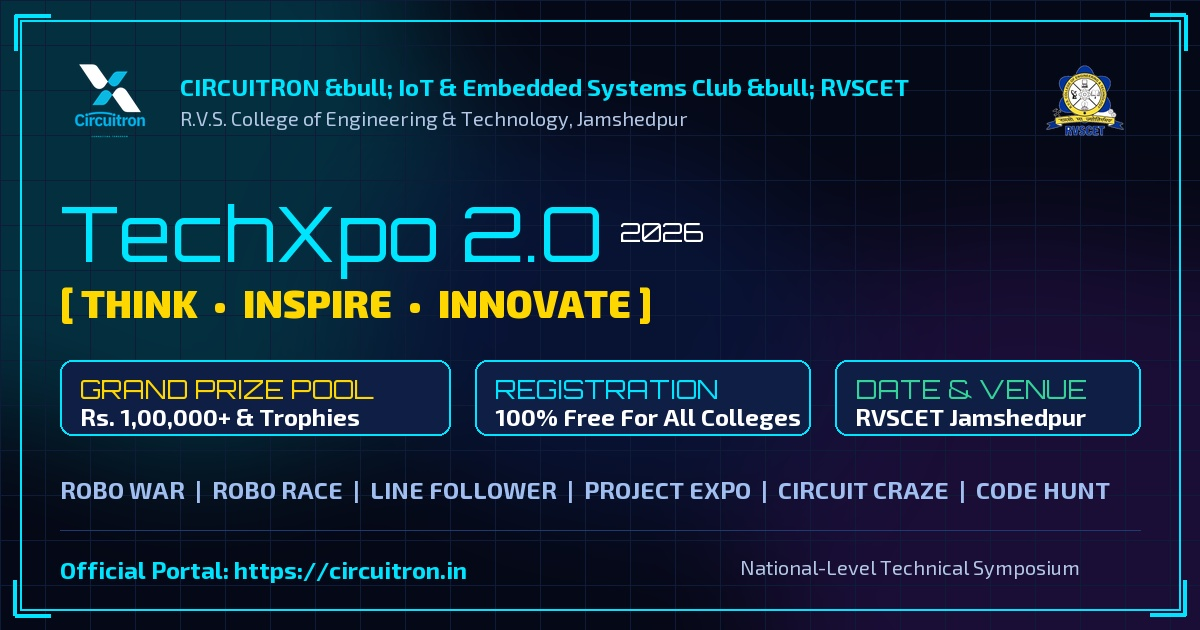
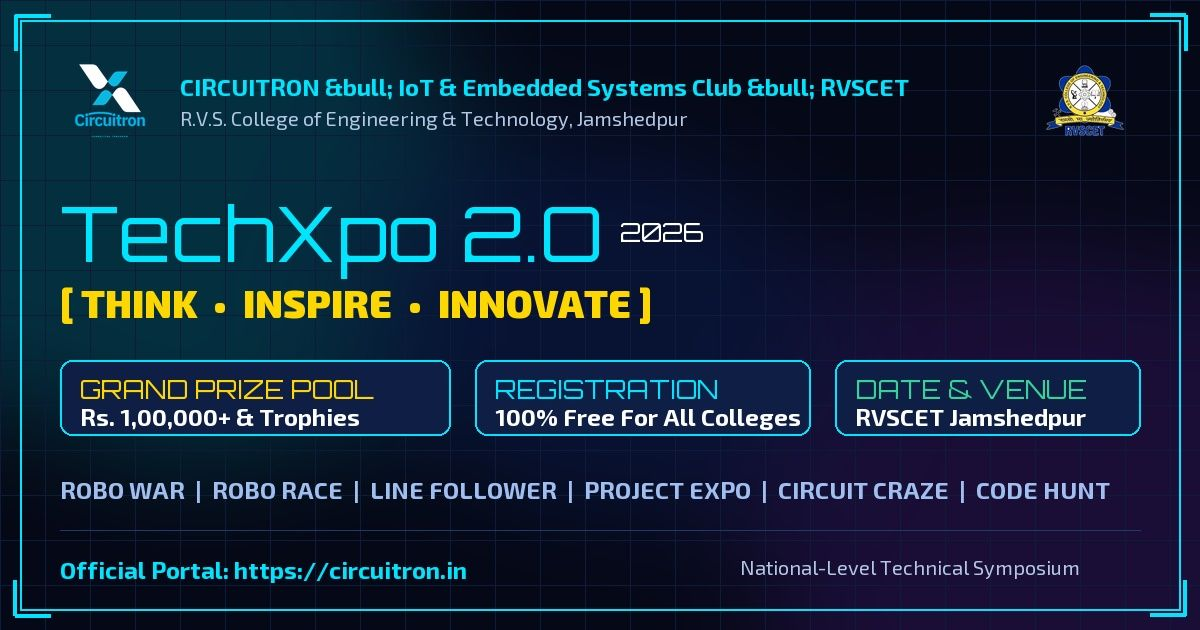
feat(ux+mobile): add floating whatsapp button, enhance mobile menu, fix broken buttons and make contact details clickable

diff --git a/src/components/Navbar.jsx b/src/components/Navbar.jsx
@@ -33,10 +33,18 @@ export default function Navbar() {
     return () => window.removeEventListener("scroll", handleScroll);
   }, []);
 
-  // Close mobile drawer when route changes
+  // Close mobile drawer when route changes or Escape key pressed
   useEffect(() => {
     setIsOpen(false);
   }, [location.pathname]);
+
+  useEffect(() => {
+    const handleKeyDown = (e) => {
+      if (e.key === "Escape") setIsOpen(false);
+    };
+    window.addEventListener("keydown", handleKeyDown);
+    return () => window.removeEventListener("keydown", handleKeyDown);
+  }, []);
 
   return (
     <motion.header
@@ -149,6 +157,7 @@ export default function Navbar() {
               onClick={() => setIsOpen(!isOpen)}
               className="p-1.5 sm:p-2.5 min-w-[34px] min-h-[34px] sm:min-w-[40px] sm:min-h-[40px] flex items-center justify-center rounded-xl bg-darkNavy/80 border border-primary/20 text-gray-300 hover:text-white focus:outline-none flex-shrink-0"
               aria-label="Toggle menu"
+              aria-expanded={isOpen}
             >
               {isOpen ? <X className="w-4 h-4 sm:w-5 sm:h-5" /> : <Menu className="w-4 h-4 sm:w-5 sm:h-5" />}
             </button>
@@ -156,55 +165,74 @@ export default function Navbar() {
         </nav>
       </div>
 
-      {/* Mobile Drawer Dropdown */}
+      {/* Mobile Drawer Dropdown & Backdrop */}
       <AnimatePresence>
         {isOpen && (
-          <motion.div
-            initial={{ opacity: 0, y: -20 }}
-            animate={{ opacity: 1, y: 0 }}
-            exit={{ opacity: 0, y: -20 }}
-            className="lg:hidden max-w-7xl mx-auto px-4 mt-2"
-          >
-            <div className="bg-darkNavy/95 backdrop-blur-xl p-4 sm:p-5 rounded-2xl border border-primary/30 space-y-2 shadow-2xl">
-              {navItems.map((item) => {
-                const isActive = location.pathname === item.path;
-                return (
-                  <Link
-                    key={item.name}
-                    to={item.path}
-                    onClick={() => setIsOpen(false)}
-                    className={`block px-4 py-3 rounded-xl text-sm font-semibold transition-all min-h-[44px] flex items-center ${
-                      isActive
-                        ? "bg-gradient-to-r from-primary/30 to-accent/30 text-white border border-primary/40 font-bold"
-                        : "text-gray-300 hover:text-white hover:bg-white/5"
-                    }`}
-                  >
-                    {item.name}
-                  </Link>
-                );
-              })}
+          <>
+            <motion.div
+              initial={{ opacity: 0 }}
+              animate={{ opacity: 1 }}
+              exit={{ opacity: 0 }}
+              onClick={() => setIsOpen(false)}
+              className="lg:hidden fixed inset-0 bg-black/60 backdrop-blur-sm z-[-1]"
+            />
+            <motion.div
+              initial={{ opacity: 0, y: -20 }}
+              animate={{ opacity: 1, y: 0 }}
+              exit={{ opacity: 0, y: -20 }}
+              className="lg:hidden max-w-7xl mx-auto px-4 mt-2"
+            >
+              <div className="bg-darkNavy/95 backdrop-blur-xl p-4 sm:p-5 rounded-2xl border border-primary/30 space-y-2 shadow-2xl">
+                {navItems.map((item) => {
+                  const isActive = location.pathname === item.path;
+                  return (
+                    <Link
+                      key={item.name}
+                      to={item.path}
+                      onClick={() => setIsOpen(false)}
+                      className={`block px-4 py-3 rounded-xl text-sm font-semibold transition-all min-h-[44px] flex items-center ${
+                        isActive
+                          ? "bg-gradient-to-r from-primary/30 to-accent/30 text-white border border-primary/40 font-bold"
+                          : "text-gray-300 hover:text-white hover:bg-white/5"
+                      }`}
+                    >
+                      {item.name}
+                    </Link>
+                  );
+                })}
 
-              <div className="pt-2 space-y-2">
-                <a
-                  href="https://forms.gle/mNU3damnJBMfnmSU7"
-                  target="_blank"
-                  rel="noopener noreferrer"
-                  className="w-full btn-primary py-3 text-xs font-bold flex items-center justify-center space-x-1.5 min-h-[44px]"
-                >
-                  <span>Register for TechXpo 2.O</span>
-                  <ArrowUpRight className="w-4 h-4" />
-                </a>
-                <Link
-                  to="/admin"
-                  onClick={() => setIsOpen(false)}
-                  className="w-full py-2.5 px-3 rounded-xl bg-darkNavy/80 border border-primary/20 text-xs font-mono text-gray-300 hover:text-accent flex items-center justify-center space-x-1.5"
-                >
-                  <ShieldCheck className="w-4 h-4 text-accent" />
-                  <span>Admin Portal</span>
-                </Link>
+                <div className="pt-2 space-y-2">
+                  <Link
+                    to="/verify"
+                    onClick={() => setIsOpen(false)}
+                    className="w-full py-2.5 px-3 rounded-xl bg-darkNavy/80 border border-primary/20 text-xs font-mono text-gray-300 hover:text-primary flex items-center justify-center space-x-1.5"
+                  >
+                    <Sparkles className="w-4 h-4 text-primary" />
+                    <span>Verify Credentials &amp; Badges</span>
+                  </Link>
+
+                  <a
+                    href="https://forms.gle/mNU3damnJBMfnmSU7"
+                    target="_blank"
+                    rel="noopener noreferrer"
+                    className="w-full btn-primary py-3 text-xs font-bold flex items-center justify-center space-x-1.5 min-h-[44px]"
+                  >
+                    <span>Register for TechXpo 2.O</span>
+                    <ArrowUpRight className="w-4 h-4" />
+                  </a>
+
+                  <Link
+                    to="/admin"
+                    onClick={() => setIsOpen(false)}
+                    className="w-full py-2.5 px-3 rounded-xl bg-darkNavy/80 border border-primary/20 text-xs font-mono text-gray-300 hover:text-accent flex items-center justify-center space-x-1.5"
+                  >
+                    <ShieldCheck className="w-4 h-4 text-accent" />
+                    <span>Admin Portal</span>
+                  </Link>
+                </div>
               </div>
-            </div>
-          </motion.div>
+            </motion.div>
+          </>
         )}
       </AnimatePresence>
     </motion.header>

diff --git a/src/components/Footer.jsx b/src/components/Footer.jsx
@@ -1,7 +1,7 @@
 import React from "react";
 import { Link } from "react-router-dom";
 import { motion } from "framer-motion";
-import { Mail, MapPin, ArrowUpRight, Heart, Sparkles } from "lucide-react";
+import { Mail, Phone, MessageSquare, MapPin, ArrowUpRight, Heart, Sparkles } from "lucide-react";
 
 export default function Footer() {
   const currentYear = new Date().getFullYear();
@@ -146,18 +146,24 @@ export default function Footer() {
 
           {/* Campus Coordinates (4 cols) */}
           <div className="lg:col-span-4 space-y-4">
-            <div className="flex items-center space-x-2.5">
-              <div className="w-8 h-8 rounded-lg p-0.5 bg-darkNavy border border-primary/30 flex items-center justify-center overflow-hidden">
+            <a
+              href="https://maps.app.goo.gl/PxfFwyV8UVVcCkex8"
+              target="_blank"
+              rel="noopener noreferrer"
+              className="flex items-center space-x-2.5 group transition-colors"
+              title="Open RVSCET on Google Maps"
+            >
+              <div className="w-8 h-8 rounded-lg p-0.5 bg-darkNavy border border-primary/30 group-hover:border-accent flex items-center justify-center overflow-hidden transition-colors">
                 <img
                   src="/assets/rvscet-logo.webp"
                   alt="RVSCET"
                   className="w-full h-full object-contain"
                 />
               </div>
-              <h4 className="text-sm font-bold font-orbitron text-white uppercase tracking-wider">
+              <h4 className="text-sm font-bold font-orbitron text-white group-hover:text-accent uppercase tracking-wider transition-colors">
                 Host Institute
               </h4>
-            </div>
+            </a>
             <div className="space-y-3 text-sm text-gray-300">
               <a
                 href="https://maps.app.goo.gl/PxfFwyV8UVVcCkex8"
@@ -181,9 +187,40 @@ export default function Footer() {
                 <Mail className="w-4 h-4 text-accent flex-shrink-0" />
                 <a
                   href="mailto:circuitronrvscet@gmail.com"
-                  className="text-primary hover:underline text-xs font-mono"
+                  className="text-primary hover:text-accent hover:underline text-xs font-mono transition-colors"
                 >
                   circuitronrvscet@gmail.com
+                </a>
+              </div>
+
+              <div className="flex items-center space-x-3">
+                <Phone className="w-4 h-4 text-accent flex-shrink-0" />
+                <div className="flex flex-wrap gap-x-2 text-xs font-mono">
+                  <a
+                    href="tel:+919631535834"
+                    className="text-primary hover:text-accent hover:underline transition-colors"
+                  >
+                    +91 96315 35834
+                  </a>
+                  <span className="text-gray-500">&bull;</span>
+                  <a
+                    href="tel:+918709658260"
+                    className="text-primary hover:text-accent hover:underline transition-colors"
+                  >
+                    +91 87096 58260
+                  </a>
+                </div>
+              </div>
+
+              <div className="flex items-center space-x-3">
+                <MessageSquare className="w-4 h-4 text-emerald-400 flex-shrink-0" />
+                <a
+                  href="https://wa.me/919631535834?text=Hello%20Circuitron%20RVSCET,%20I%20have%20an%20inquiry%20regarding%20TechXpo%202.O"
+                  target="_blank"
+                  rel="noopener noreferrer"
+                  className="text-emerald-400 hover:text-emerald-300 hover:underline text-xs font-mono font-semibold transition-colors"
+                >
+                  WhatsApp Helpdesk
                 </a>
               </div>
             </div>

diff --git a/src/components/FloatingWhatsApp.jsx b/src/components/FloatingWhatsApp.jsx
@@ -1,0 +1,33 @@
+import React from "react";
+import { motion } from "framer-motion";
+
+export default function FloatingWhatsApp() {
+  return (
+    <motion.aside
+      aria-label="Instant WhatsApp Helpdesk"
+      initial={{ opacity: 0, scale: 0.8, y: 20 }}
+      animate={{ opacity: 1, scale: 1, y: 0 }}
+      transition={{ duration: 0.5, delay: 0.8 }}
+      className="fixed bottom-4 left-4 sm:bottom-6 sm:left-6 z-50 select-none"
+    >
+      <motion.a
+        href="https://wa.me/919631535834?text=Hello%20Circuitron%20RVSCET,%20I%20have%20an%20inquiry%20regarding%20TechXpo%202.O"
+        target="_blank"
+        rel="noopener noreferrer"
+        whileHover={{ scale: 1.08, y: -2 }}
+        whileTap={{ scale: 0.94 }}
+        className="group relative flex items-center space-x-2 px-3.5 py-2.5 sm:px-4 sm:py-3 rounded-full bg-[#25D366] hover:bg-[#20bd5a] text-white font-bold font-orbitron text-[11px] sm:text-xs shadow-[0_4px_25px_rgba(37,211,102,0.45)] border border-white/25 transition-all duration-300"
+        aria-label="Chat on WhatsApp with Circuitron Helpdesk"
+        title="Chat with TechXpo 2.O Helpdesk on WhatsApp"
+      >
+        <div className="relative">
+          <svg className="w-4 h-4 sm:w-5 sm:h-5 fill-current text-white flex-shrink-0" viewBox="0 0 24 24">
+            <path d="M.057 24l1.687-6.163c-1.041-1.804-1.588-3.849-1.587-5.946.003-6.556 5.338-11.891 11.893-11.891 3.181.001 6.167 1.24 8.413 3.488 2.245 2.248 3.481 5.236 3.48 8.414-.003 6.557-5.338 11.892-11.893 11.892-1.99-.001-3.951-.5-5.688-1.448l-6.305 1.654zm6.597-3.807c1.676.995 3.276 1.591 5.392 1.592 5.448 0 9.886-4.434 9.889-9.885.002-5.462-4.415-9.89-9.881-9.892-5.452 0-9.887 4.434-9.889 9.884-.001 2.225.651 3.891 1.746 5.634l-.999 3.648 3.742-.981zm11.387-5.464c-.074-.124-.272-.198-.57-.347-.297-.149-1.758-.868-2.031-.967-.272-.099-.47-.149-.669.149-.198.297-.768.967-.941 1.165-.173.198-.347.223-.644.074-.297-.149-1.255-.462-2.39-1.475-.883-.788-1.48-1.761-1.653-2.059-.173-.297-.018-.458.13-.606.134-.133.297-.347.446-.521.151-.172.2-.296.3-.495.099-.198.05-.372-.025-.521-.075-.148-.669-1.611-.916-2.206-.242-.579-.487-.501-.669-.51l-.57-.01c-.198 0-.52.074-.792.372s-1.04 1.016-1.04 2.479 1.065 2.876 1.213 3.074c.149.198 2.095 3.2 5.076 4.487.709.306 1.263.489 1.694.626.712.226 1.36.194 1.872.118.571-.085 1.758-.719 2.006-1.413.248-.695.248-1.29.173-1.414z" />
+          </svg>
+          <span className="absolute -top-1 -right-1 w-2 h-2 rounded-full bg-emerald-200 animate-ping" />
+        </div>
+        <span className="hidden xs:inline tracking-wide">WhatsApp</span>
+      </motion.a>
+    </motion.aside>
+  );
+}

diff --git a/src/pages/NotFound.jsx b/src/pages/NotFound.jsx
@@ -26,10 +26,19 @@ export default function NotFound() {
 
       <div className="max-w-2xl mx-auto px-4 text-center space-y-6 relative z-10">
         
+        {/* Clickable Logo */}
+        <Link to="/" className="inline-block group" title="Return to Home">
+          <div className="w-14 h-14 sm:w-16 sm:h-16 mx-auto rounded-2xl p-1.5 bg-darkNavy border-2 border-primary/40 group-hover:border-accent transition-all duration-300 shadow-neon flex items-center justify-center overflow-hidden">
+            <img src="/logo.png" alt="Circuitron Logo" className="w-full h-full object-contain group-hover:scale-105 transition-transform" />
+          </div>
+        </Link>
+
         {/* Error Badge */}
-        <div className="inline-flex items-center space-x-2 px-3.5 py-1.5 rounded-full bg-red-500/10 border border-red-500/30 text-xs font-mono font-bold text-red-400">
-          <AlertTriangle className="w-3.5 h-3.5" />
-          <span>HTTP ERROR 404 &bull; SUBSPACE ANOMALY</span>
+        <div>
+          <div className="inline-flex items-center space-x-2 px-3.5 py-1.5 rounded-full bg-red-500/10 border border-red-500/30 text-xs font-mono font-bold text-red-400">
+            <AlertTriangle className="w-3.5 h-3.5" />
+            <span>HTTP ERROR 404 &bull; SUBSPACE ANOMALY</span>
+          </div>
         </div>
 
         {/* 404 Neon Glitch Text */}

diff --git a/src/pages/Contact.jsx b/src/pages/Contact.jsx
@@ -285,8 +285,22 @@ export default function Contact() {
                   </p>
                 </div>
                 <div className="pt-1 space-y-1 font-mono text-xs">
-                  <div className="text-emerald-400 font-bold block">+91 96315 35834</div>
-                  <div className="text-emerald-400 font-bold block">+91 87096 58260</div>
+                  <a
+                    href="https://wa.me/919631535834?text=Hello%20Circuitron%20RVSCET,%20I%20have%20an%20inquiry%20regarding%20TechXpo%202.O"
+                    target="_blank"
+                    rel="noopener noreferrer"
+                    className="text-emerald-400 hover:text-emerald-300 font-bold block transition-colors"
+                  >
+                    +91 96315 35834
+                  </a>
+                  <a
+                    href="https://wa.me/918709658260?text=Hello%20Circuitron%20RVSCET,%20I%20have%20an%20inquiry%20regarding%20TechXpo%202.O"
+                    target="_blank"
+                    rel="noopener noreferrer"
+                    className="text-emerald-400 hover:text-emerald-300 font-bold block transition-colors"
+                  >
+                    +91 87096 58260
+                  </a>
                 </div>
               </div>
 

diff --git a/src/pages/Events.jsx b/src/pages/Events.jsx
@@ -609,13 +609,11 @@ export default function Events() {
                       href={event.registrationLink}
                       target="_blank"
                       rel="noopener noreferrer"
-                      className="flex-1"
+                      className="flex-1 btn-primary py-2.5 text-xs font-bold text-center flex items-center justify-center space-x-1.5"
                       onClick={(e) => e.stopPropagation()}
                     >
-                      <button className="w-full btn-primary py-2.5 text-xs font-bold">
-                        <span>Register Now</span>
-                        <ExternalLink className="w-3.5 h-3.5" />
-                      </button>
+                      <span>Register Now</span>
+                      <ExternalLink className="w-3.5 h-3.5" />
                     </a>
                   ) : null}
                   <button

diff --git a/src/App.jsx b/src/App.jsx
@@ -5,6 +5,7 @@ import { AnimatePresence } from "framer-motion";
 import Navbar from "./components/Navbar";
 import Footer from "./components/Footer";
 import ScrollToTop from "./components/ScrollToTop";
+import FloatingWhatsApp from "./components/FloatingWhatsApp";
 import ScrollProgressBar from "./components/ScrollProgressBar";
 import RobotMascotBackground from "./components/RobotMascotBackground";
 import PageLoader from "./components/PageLoader";
@@ -212,6 +213,7 @@ export default function App() {
       </main>
       <Footer />
       <ScrollToTop />
+      <FloatingWhatsApp />
       <SpeedInsights />
       <Analytics />
     </div>
